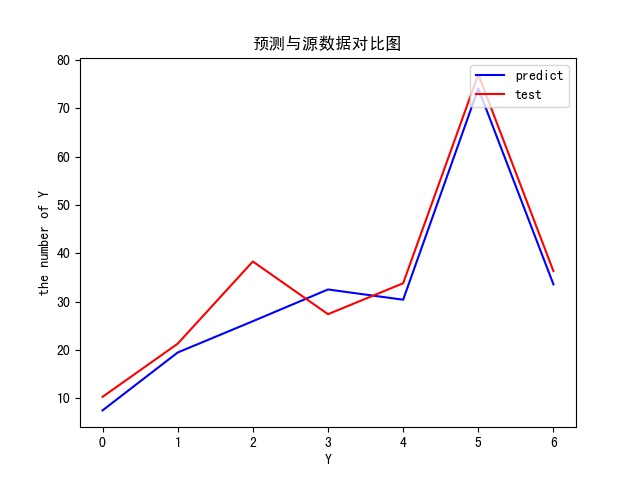
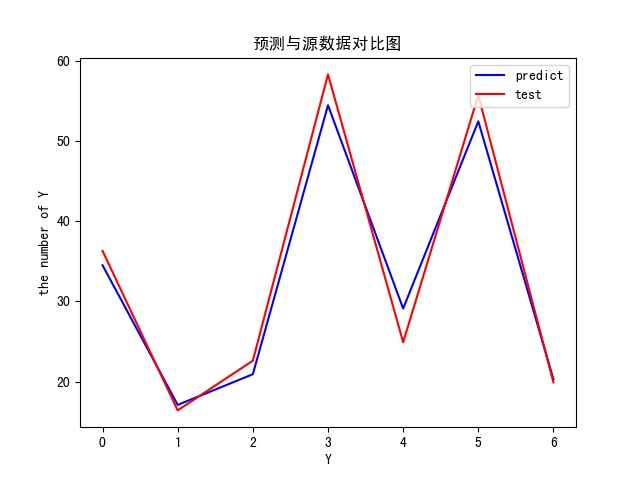
Adult 和MNIST Scale实验完成
MINIST scale效果明显提升
Adult尚未分析

diff --git a/SvmTest.py b/SvmTest.py
@@ -19,21 +19,21 @@ with open(mydir,'w+') as f:
     print(p_val,file=f)
 
 
-# # usps实验
-# y, x = svm_read_problem('Data/usps')
-# yt, xt = svm_read_problem('Data/usps.t')
-# model = svm_train(y,x)
-# p_label, p_acc, p_val = svm_predict(yt[0:117], xt[0:117], model)
-# # 保存结果
-# mydir = 'result/usps_label.txt'
-# with open(mydir, 'w+') as f:
-#     print(p_label,file=f)
-# mydir = 'result/usps_acc.txt'
-# with open(mydir,'w+') as f:
-#     print(p_acc,file=f)
-# mydir = 'result/usps_val.txt'
-# with open(mydir,'w+') as f:
-#     print(p_val,file=f)
+# usps实验
+y, x = svm_read_problem('Data/usps')
+yt, xt = svm_read_problem('Data/usps.t')
+model = svm_train(y,x)
+p_label, p_acc, p_val = svm_predict(yt[0:117], xt[0:117], model)
+# 保存结果
+mydir = 'result/usps_label.txt'
+with open(mydir, 'w+') as f:
+    print(p_label,file=f)
+mydir = 'result/usps_acc.txt'
+with open(mydir,'w+') as f:
+    print(p_acc,file=f)
+mydir = 'result/usps_val.txt'
+with open(mydir,'w+') as f:
+    print(p_val,file=f)
 
 
 def adult_test():

diff --git a/linear_statistic.py b/linear_statistic.py
@@ -80,11 +80,14 @@ plt.savefig("result/compare_linear.jpg")
 plt.show()
 
 
-
 # 残差预测值
 #  enumerate 函数可以把一个 list 变成索引-元素对
-tmp = {'x':range(len(Y_pred[:,0])),'y':Y_pred[:,0]}
+y_dif = []
+for i in range(len(Y_pred)):
+    y_dif.append(Y_pred[i,0]-Y_test['y'].values[i])
+tmp = {'x':range(len(y_dif)),'y':y_dif}
 df = pd.DataFrame(tmp)
 sns.residplot(x="x", y="y",data=df)
 plt.savefig("result/残差图.jpg")
 plt.title('残差图')
+plt.show()

diff --git a/result/MNIST of Scale.md b/result/MNIST of Scale.md
@@ -1,0 +1,240 @@
+D:\Anaconda3\envs\tf\python.exe E:/CODE/GIT/MathModel/SvmTest.py
+*
+optimization finished, #iter = 872
+nu = 0.097807
+obj = -796.617278, rho = -0.877492
+nSV = 1149, nBSV = 1069
+*
+optimization finished, #iter = 874
+nu = 0.095455
+obj = -749.981659, rho = -1.579710
+nSV = 1114, nBSV = 1037
+*
+optimization finished, #iter = 597
+nu = 0.063136
+obj = -532.370095, rho = -1.862447
+nSV = 798, nBSV = 736
+*.*
+optimization finished, #iter = 1029
+nu = 0.116570
+obj = -964.052903, rho = -1.696981
+nSV = 1369, nBSV = 1285
+*.*
+optimization finished, #iter = 1037
+nu = 0.115469
+obj = -988.079471, rho = 0.083116
+nSV = 1361, nBSV = 1270
+.
+WARNING: using -h 0 may be faster
+*
+optimization finished, #iter = 1729
+nu = 0.208298
+obj = -1869.552978, rho = -1.113353
+nSV = 2461, nBSV = 2357
+*
+optimization finished, #iter = 996
+nu = 0.121065
+obj = -1048.231062, rho = -1.377350
+nSV = 1412, nBSV = 1336
+*
+optimization finished, #iter = 716
+nu = 0.082115
+obj = -657.946188, rho = -0.865324
+nSV = 994, nBSV = 927
+.
+WARNING: using -h 0 may be faster
+*
+optimization finished, #iter = 1604
+nu = 0.184783
+obj = -1591.862243, rho = -3.574597
+nSV = 2145, nBSV = 2029
+*
+optimization finished, #iter = 442
+nu = 0.041480
+obj = -333.627298, rho = -0.465312
+nSV = 517, nBSV = 456
+*
+optimization finished, #iter = 254
+nu = 0.020049
+obj = -162.829377, rho = -0.707142
+nSV = 271, nBSV = 232
+*
+optimization finished, #iter = 597
+nu = 0.053195
+obj = -446.871764, rho = -0.234762
+nSV = 665, nBSV = 599
+*
+optimization finished, #iter = 798
+nu = 0.076731
+obj = -657.956860, rho = 0.591926
+nSV = 958, nBSV = 872
+*
+optimization finished, #iter = 668
+nu = 0.063571
+obj = -532.336203, rho = 0.371520
+nSV = 801, nBSV = 726
+*
+optimization finished, #iter = 719
+nu = 0.071497
+obj = -604.326858, rho = -0.106339
+nSV = 882, nBSV = 811
+*
+optimization finished, #iter = 460
+nu = 0.045012
+obj = -367.136896, rho = -0.040445
+nSV = 577, nBSV = 522
+*
+optimization finished, #iter = 669
+nu = 0.063523
+obj = -533.530219, rho = -0.255541
+nSV = 785, nBSV = 706
+*
+optimization finished, #iter = 414
+nu = 0.041957
+obj = -359.274173, rho = 0.230633
+nSV = 547, nBSV = 507
+.
+WARNING: using -h 0 may be faster
+*
+optimization finished, #iter = 1787
+nu = 0.212122
+obj = -1900.634380, rho = 0.620886
+nSV = 2546, nBSV = 2451
+*
+optimization finished, #iter = 863
+nu = 0.091525
+obj = -803.541126, rho = 1.224210
+nSV = 1124, nBSV = 1037
+*
+optimization finished, #iter = 631
+nu = 0.063621
+obj = -524.329098, rho = 1.487572
+nSV = 804, nBSV = 729
+*
+optimization finished, #iter = 738
+nu = 0.077979
+obj = -654.732403, rho = 0.365663
+nSV = 952, nBSV = 882
+*
+optimization finished, #iter = 941
+nu = 0.100406
+obj = -870.375094, rho = 0.791389
+nSV = 1260, nBSV = 1179
+*
+optimization finished, #iter = 850
+nu = 0.084384
+obj = -682.661086, rho = 0.736140
+nSV = 1038, nBSV = 941
+*
+optimization finished, #iter = 454
+nu = 0.047322
+obj = -418.640074, rho = 0.110100
+nSV = 627, nBSV = 569
+*
+optimization finished, #iter = 687
+nu = 0.070520
+obj = -647.470236, rho = 2.159890
+nSV = 928, nBSV = 862
+*
+optimization finished, #iter = 643
+nu = 0.063988
+obj = -604.880896, rho = 1.731693
+nSV = 856, nBSV = 785
+*
+optimization finished, #iter = 393
+nu = 0.041780
+obj = -350.825923, rho = 0.382540
+nSV = 553, nBSV = 510
+*
+optimization finished, #iter = 530
+nu = 0.055946
+obj = -508.787392, rho = 0.692606
+nSV = 753, nBSV = 702
+*
+optimization finished, #iter = 863
+nu = 0.101738
+obj = -957.695161, rho = 0.196557
+nSV = 1313, nBSV = 1255
+*
+optimization finished, #iter = 822
+nu = 0.087065
+obj = -756.780585, rho = 1.144696
+nSV = 1075, nBSV = 994
+*.*
+optimization finished, #iter = 1013
+nu = 0.106678
+obj = -975.745788, rho = 1.100954
+nSV = 1332, nBSV = 1247
+*
+optimization finished, #iter = 480
+nu = 0.047037
+obj = -360.918009, rho = -0.122367
+nSV = 584, nBSV = 522
+.
+WARNING: using -h 0 may be faster
+*
+optimization finished, #iter = 1762
+nu = 0.199810
+obj = -1931.513715, rho = 1.224477
+nSV = 2486, nBSV = 2399
+*.*
+optimization finished, #iter = 1139
+nu = 0.122953
+obj = -1085.691939, rho = 0.179493
+nSV = 1501, nBSV = 1410
+.*
+optimization finished, #iter = 1316
+nu = 0.137971
+obj = -1298.928079, rho = -0.729953
+nSV = 1724, nBSV = 1612
+*.*
+optimization finished, #iter = 1189
+nu = 0.120689
+obj = -1043.012856, rho = -1.534811
+nSV = 1481, nBSV = 1382
+*
+optimization finished, #iter = 901
+nu = 0.093352
+obj = -852.031626, rho = -1.239564
+nSV = 1180, nBSV = 1101
+.
+WARNING: using -h 0 may be faster
+*
+optimization finished, #iter = 1423
+nu = 0.145085
+obj = -1302.478706, rho = -2.489398
+nSV = 1778, nBSV = 1661
+*
+optimization finished, #iter = 631
+nu = 0.065990
+obj = -543.573164, rho = -0.944850
+nSV = 827, nBSV = 764
+*
+optimization finished, #iter = 909
+nu = 0.086795
+obj = -796.543442, rho = -0.413621
+nSV = 1117, nBSV = 1037
+.
+WARNING: using -h 0 may be faster
+*
+optimization finished, #iter = 1599
+nu = 0.174586
+obj = -1627.135043, rho = -2.428896
+nSV = 2149, nBSV = 2048
+*
+optimization finished, #iter = 451
+nu = 0.040408
+obj = -316.058551, rho = 0.181652
+nSV = 529, nBSV = 461
+*
+optimization finished, #iter = 749
+nu = 0.084485
+obj = -721.161058, rho = 0.114232
+nSV = 1035, nBSV = 962
+*
+optimization finished, #iter = 793
+nu = 0.081188
+obj = -696.361298, rho = -0.105534
+nSV = 1019, nBSV = 938
+Total nSV = 19599
+Accuracy = 98.2906% (115/117) (classification)

diff --git a/result/Adult .md b/result/Adult .md
@@ -1,0 +1,15 @@
+D:\Anaconda3\envs\tf\python.exe E:/CODE/GIT/MathModel/pa2_svm.py
+D:\Anaconda3\envs\tf\lib\site-packages\sklearn\svm\base.py:193: FutureWarning: The default value of gamma will change from 'auto' to 'scale' in version 0.22 to account better for unscaled features. Set gamma explicitly to 'auto' or 'scale' to avoid this warning.
+  "avoid this warning.", FutureWarning)
+              precision    recall  f1-score   support
+
+       <=50k       0.90      0.96      0.93      7654
+        >50k       0.69      0.47      0.56      1553
+    
+    accuracy                           0.87      9207
+   macro avg       0.79      0.71      0.74      9207
+weighted avg       0.86      0.87      0.86      9207
+
+roc: 0.9040680638517357
+
+Process finished with exit code 0
